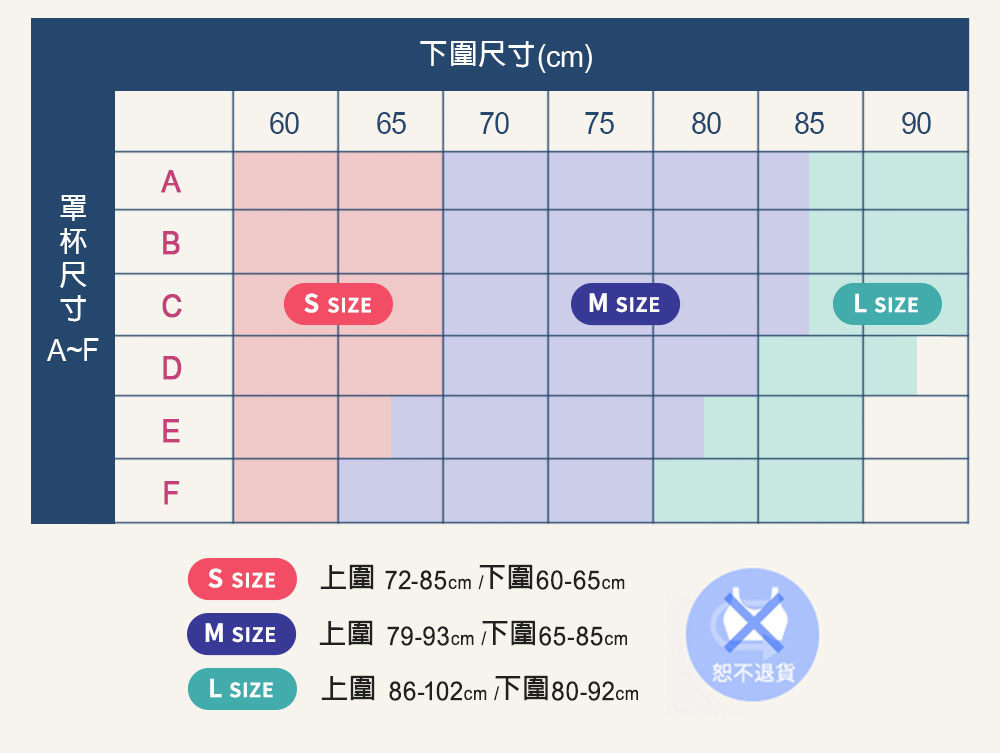
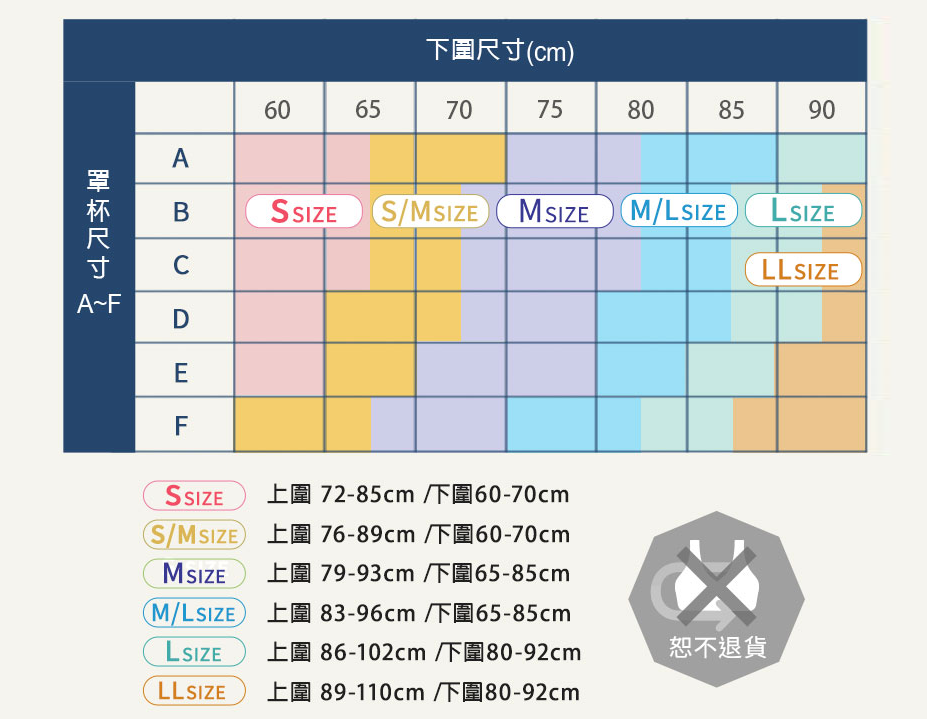
20191225_new size shopping cart revision

diff --git a/acsJs/multi-product.setting.js b/acsJs/multi-product.setting.js
@@ -8,14 +8,15 @@ const PRODUCT_LIST = [
 	  image_url : '',
 	  product_id : 'A',
 	  image_urls : [
-		{ category1 : 'BL',  image_url : SETTING_DOMAIN_URL + '/access_form_sample/商品圖/海軍藍.jpg' },
-		{ category1 : 'BK',  image_url : SETTING_DOMAIN_URL + '/access_form_sample/商品圖/率性黑.jpg' },
-		{ category1 : 'RD',  image_url : SETTING_DOMAIN_URL + '/access_form_sample/商品圖/櫻花粉.jpg' },
-		{ category1 : 'LP',  image_url : SETTING_DOMAIN_URL + '/access_form_sample/商品圖/薰衣草紫.jpg' },
-		{ category1 : 'SL',  image_url : SETTING_DOMAIN_URL + '/access_form_sample/商品圖/天空藍.jpg' },
+			{ category1 : 'BL',  image_url : SETTING_DOMAIN_URL + '/access_form_sample/商品圖/海軍藍.jpg' },
+			{ category1 : 'RD',  image_url : SETTING_DOMAIN_URL + '/access_form_sample/商品圖/櫻花粉.jpg' },
+			{ category1 : 'LP',  image_url : SETTING_DOMAIN_URL + '/access_form_sample/商品圖/薰衣草紫.jpg' },
+			{ category1 : 'BK',  image_url : SETTING_DOMAIN_URL + '/access_form_sample/商品圖/率性黑.jpg' },
+			{ category1 : 'SL',  image_url : SETTING_DOMAIN_URL + '/access_form_sample/商品圖/天空藍.jpg' },
+
 	  ]
 	},
-	// 可複數 深藍→黑→粉→紫→水藍
+	// 可複數
 ];
 
 
@@ -26,9 +27,9 @@ const CATEGORY_1_LIST = {
 	label: '請選擇顏色',
 	list: [
 		{ label: '請選擇顏色及數量<br>海軍藍', value: 'BL', label_short: '海軍藍' },
-		{ label: '請選擇顏色及數量<br>率性黑', value: 'BK', label_short: '率性黑' },
 		{ label: '請選擇顏色及數量<br>櫻花粉', value: 'RD', label_short: '櫻花粉' },
 		{ label: '請選擇顏色及數量<br>薰衣草紫', value: 'LP', label_short: '薰衣草紫' },
+		{ label: '請選擇顏色及數量<br>率性黑', value: 'BK', label_short: '率性黑' },
 		{ label: '請選擇顏色及數量<br>天空藍', value: 'SL', label_short: '天空藍' },
 	]
 };
@@ -40,8 +41,11 @@ const CATEGORY_2_LIST = {
 	label: '請選擇尺寸',
 	list: [
 		{ label: 'S', value: 'S', label_short: 'S' },
+		{ label: 'S/M', value: 'SM', label_short: 'S/M' },
 		{ label: 'M', value: 'M', label_short: 'M' },
+		{ label: 'M/L', value: 'ML', label_short: 'M/L' },
 		{ label: 'L', value: 'L', label_short: 'L' },
+		{ label: 'LL', value: 'LL', label_short: 'LL' },
 	]
 };
 
@@ -52,21 +56,36 @@ const PRODUCT_CATEGORY_MAPPING = [
 	{
 	  	product_id : 'A',
 	  	product_code_mapping : [
-			{ product_code : '4560449970266'  , category2 : 'S' , category1 : 'BK' } ,
-			{ product_code : '4560449970273'  , category2 : 'M' , category1 : 'BK' } ,
-			{ product_code : '4560449970280'  , category2 : 'L' , category1 : 'BK' } ,
-			{ product_code : '4560449970327'  , category2 : 'S' , category1 : 'RD' } ,
-			{ product_code : '4560449970334'  , category2 : 'M' , category1 : 'RD' } , 
-			{ product_code : '4560449970341'  , category2 : 'L' , category1 : 'RD' } , 
-			{ product_code : '4560449970297'  , category2 : 'S' , category1 : 'LP' } ,
-			{ product_code : '4560449970396'  , category2 : 'M' , category1 : 'LP' } , 
-			{ product_code : '4560449970310'  , category2 : 'L' , category1 : 'LP' } , 
-			{ product_code : '4560449970402'  , category2 : 'S' , category1 : 'SL' } ,
-			{ product_code : '4560449970419'  , category2 : 'M' , category1 : 'SL' } ,
-			{ product_code : '4560449970426'  , category2 : 'L' , category1 : 'SL' } ,
 			{ product_code : '4560449970440'  , category2 : 'S' , category1 : 'BL' } , 
+			{ product_code : '4560449970600'  , category2 : 'SM' , category1 : 'BL' } , 
 			{ product_code : '4560449970457'  , category2 : 'M' , category1 : 'BL' } , 
+			{ product_code : '4560449970617'  , category2 : 'ML' , category1 : 'BL' } , 
 			{ product_code : '4560449970464'  , category2 : 'L' , category1 : 'BL' } , 
+			{ product_code : '4560449970624'  , category2 : 'LL' , category1 : 'BL' } , 
+			{ product_code : '4560449970327'  , category2 : 'S' , category1 : 'RD' } ,
+			{ product_code : '4560449970631'  , category2 : 'SM' , category1 : 'RD' } ,
+			{ product_code : '4560449970334'  , category2 : 'M' , category1 : 'RD' } , 
+			{ product_code : '4560449970648'  , category2 : 'ML' , category1 : 'RD' } ,
+			{ product_code : '4560449970341'  , category2 : 'L' , category1 : 'RD' } , 
+			{ product_code : '4560449970655'  , category2 : 'LL' , category1 : 'RD' } ,
+			{ product_code : '4560449970297'  , category2 : 'S' , category1 : 'LP' } ,
+			{ product_code : '4560449970662'  , category2 : 'SM' , category1 : 'LP' } , 
+			{ product_code : '4560449970396'  , category2 : 'M' , category1 : 'LP' } , 
+			{ product_code : '4560449970679'  , category2 : 'ML' , category1 : 'LP' } , 
+			{ product_code : '4560449970310'  , category2 : 'L' , category1 : 'LP' } , 
+			{ product_code : '4560449970686'  , category2 : 'LL' , category1 : 'LP' } , 
+			{ product_code : '4560449970266'  , category2 : 'S' , category1 : 'BK' } ,
+			{ product_code : '4560449970570'  , category2 : 'SM' , category1 : 'BK' } ,
+			{ product_code : '4560449970273'  , category2 : 'M' , category1 : 'BK' } ,
+			{ product_code : '4560449970587'  , category2 : 'ML' , category1 : 'BK' } ,
+			{ product_code : '4560449970280'  , category2 : 'L' , category1 : 'BK' } ,
+			{ product_code : '4560449970594'  , category2 : 'LL' , category1 : 'BK' } ,
+			{ product_code : '4560449970402'  , category2 : 'S' , category1 : 'SL' } ,
+			{ product_code : '4560449970693'  , category2 : 'SM' , category1 : 'SL' } ,
+			{ product_code : '4560449970419'  , category2 : 'M' , category1 : 'SL' } ,
+			{ product_code : '4560449970709'  , category2 : 'ML' , category1 : 'SL' } ,
+			{ product_code : '4560449970426'  , category2 : 'L' , category1 : 'SL' } ,
+			{ product_code : '4560449970716'  , category2 : 'LL' , category1 : 'SL' } ,
 	  ]
 	},
 	// 可複數

diff --git a/index.html b/index.html
@@ -17,12 +17,12 @@
   <script src="acsJs/setting.js?ver=20190605"></script>
   <script src="../CommonFiles/js/jquery-3.3.1.min.js"></script>
   <script src="../CommonFiles/js/app.min.js?ver=20190401"></script>
-  <script src="../CommonFiles/js/other.js?ver=20191111"></script>
+  <script src="../CommonFiles/js/other.js?ver=20191219"></script>
   <!-- 編集削除禁止※ACCESS　JAVASCRIPT※編集削除禁止　-->
 
   <!-- 編集削除禁止※ACCESS　JAVASCRIPT※編集削除禁止 -->
   <link rel="stylesheet" href="../CommonFiles/plugin/multi-product/css/multi-product.css">
-  <script src="acsJs/multi-product.setting.js?ver=20190703"></script>
+  <script src="acsJs/multi-product.setting.js?ver=20191219"></script>
   <script src="../CommonFiles/plugin/multi-product/js/multi-product.init.js?ver=20190828"></script>
   <!-- 編集削除禁止※ACCESS　JAVASCRIPT※編集削除禁止　-->
   <style>
